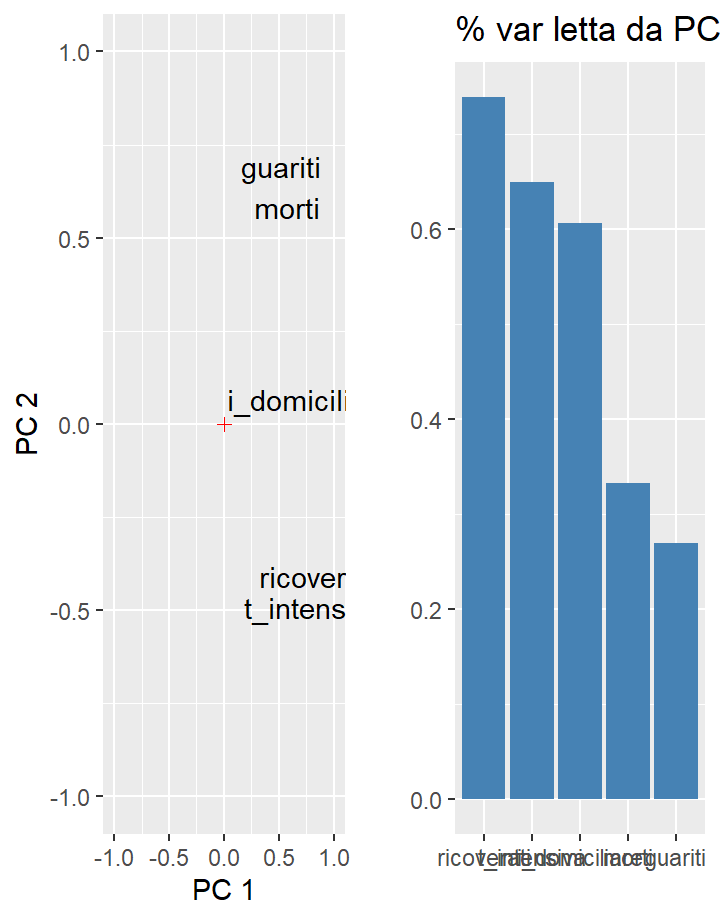
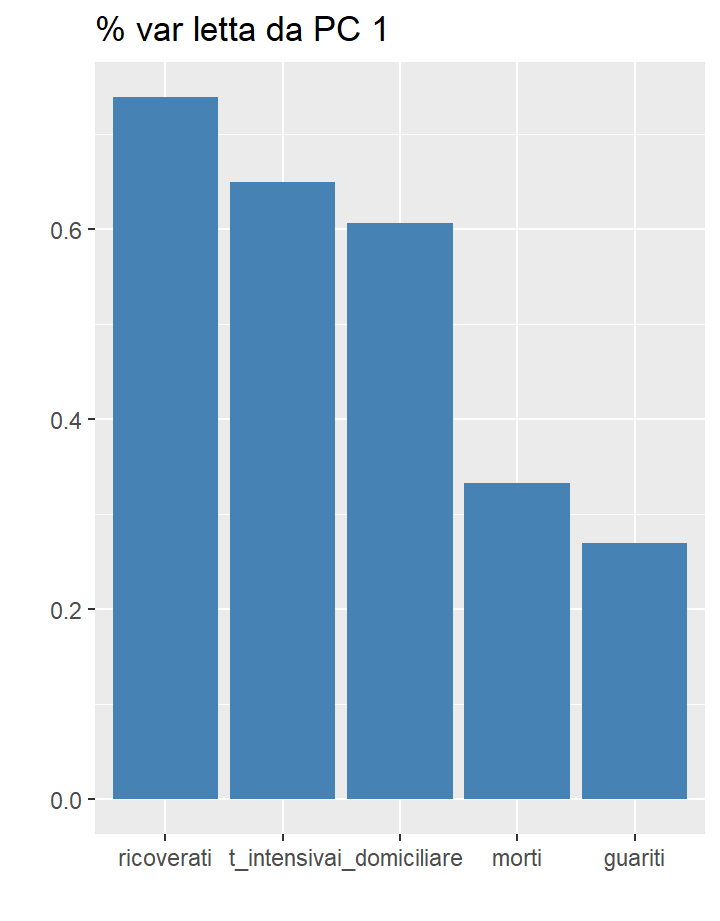
Add files via upload

diff --git a/index.html b/index.html
@@ -832,6 +832,7 @@ body {
 
 <img class="mobile-figure" data-mobile-figure-id=fig1 src="index_files/figure-html/unnamed-chunk-1-1.mb.png" />
 <img class="mobile-figure" data-mobile-figure-id=fig2 src="index_files/figure-html/unnamed-chunk-15-1.mb.png" />
+<img class="mobile-figure" data-mobile-figure-id=fig3 src="index_files/figure-html/unnamed-chunk-16-1.mb.png" />
 <script type="text/javascript">
 
 
@@ -2718,16 +2719,16 @@ window.FlexDashboardComponents.push({
 <div class="knitr-options" data-fig-width="576" data-fig-height="460">
 
 </div>
-<div id="htmlwidget-4f9350a55f578fbecb28" style="width:100%;height:auto;" class="datatables html-widget"></div>
-<script type="application/json" data-for="htmlwidget-4f9350a55f578fbecb28">{"x":{"filter":"none","fillContainer":true,"data":[["febbraio","febbraio","febbraio","febbraio","febbraio","febbraio","marzo","marzo","marzo","marzo","marzo","marzo","marzo","marzo","marzo","marzo","marzo","marzo","marzo","marzo","marzo","marzo","marzo","marzo","marzo","marzo","marzo","marzo","marzo","marzo","marzo","marzo","marzo","marzo","marzo","marzo","marzo","aprile","aprile","aprile","aprile","aprile","aprile","aprile","aprile","aprile","aprile","aprile","aprile","aprile","aprile","aprile","aprile","aprile","aprile","aprile","aprile","aprile","aprile","aprile","aprile","aprile","aprile","aprile","aprile","aprile","aprile","maggio","maggio","maggio","maggio","maggio","maggio","maggio","maggio","maggio","maggio","maggio","maggio","maggio","maggio","maggio","maggio","maggio","maggio","maggio","maggio","maggio","maggio","maggio","maggio","maggio","maggio","maggio","maggio","maggio","maggio","maggio","giugno","giugno","giugno","giugno","giugno","giugno","giugno","giugno","giugno","giugno","giugno","giugno","giugno","giugno","giugno","giugno","giugno","giugno","giugno","giugno","giugno","giugno","giugno","giugno","giugno","giugno","giugno","giugno","giugno","giugno","luglio","luglio","luglio","luglio","luglio","luglio","luglio","luglio","luglio","luglio","luglio","luglio","luglio","luglio","luglio","luglio","luglio","luglio","luglio","luglio","luglio","luglio","luglio","luglio","luglio","luglio","luglio","luglio","luglio","luglio","luglio","agosto","agosto","agosto","agosto","agosto","agosto","agosto","agosto","agosto","agosto","agosto","agosto","agosto","agosto","agosto","agosto","agosto","agosto","agosto","agosto","agosto","agosto","agosto","agosto","agosto","agosto","agosto","agosto","agosto","agosto","agosto","settembre","settembre","settembre","settembre","settembre","settembre","settembre","settembre","settembre","settembre","settembre","settembre","settembre","settembre","settembre","settembre","settembre","settembre","settembre","settembre","settembre","settembre","settembre","settembre","settembre","settembre","settembre","settembre","settembre","settembre","ottobre","ottobre","ottobre","ottobre","ottobre","ottobre","ottobre","ottobre","ottobre","ottobre","ottobre","ottobre","ottobre","ottobre","ottobre","ottobre","ottobre","ottobre","ottobre","ottobre","ottobre","ottobre","ottobre","ottobre","ottobre","ottobre","ottobre","ottobre","ottobre","ottobre","ottobre","novembre","novembre","novembre","novembre","novembre","novembre","novembre","novembre","novembre","novembre","novembre","novembre","novembre","novembre","novembre","novembre","novembre","novembre","novembre","novembre","novembre","novembre","novembre"],[1,2,3,4,5,6,7,8,9,10,11,12,13,14,15,16,17,18,19,20,21,22,23,24,25,26,27,28,29,30,31,32,33,34,35,36,37,38,39,40,41,42,43,44,45,46,47,48,49,50,51,52,53,54,55,56,57,58,59,60,61,62,63,64,65,66,67,68,69,70,71,72,73,74,75,76,77,78,79,80,81,82,83,84,85,86,87,88,89,90,91,92,93,94,95,96,97,98,99,100,101,102,103,104,105,106,107,108,109,110,111,112,113,114,115,116,117,118,119,120,121,122,123,124,125,126,127,128,129,130,131,132,133,134,135,136,137,138,139,140,141,142,143,144,145,146,147,148,149,150,151,152,153,154,155,156,157,158,159,160,161,162,163,164,165,166,167,168,169,170,171,172,173,174,175,176,177,178,179,180,181,182,183,184,185,186,187,188,189,190,191,192,193,194,195,196,197,198,199,200,201,202,203,204,205,206,207,208,209,210,211,212,213,214,215,216,217,218,219,220,221,222,223,224,225,226,227,228,229,230,231,232,233,234,235,236,237,238,239,240,241,242,243,244,245,246,247,248,249,250,251,252,253,254,255,256,257,258,259,260,261,262,263,264,265,266,267,268,269,270,271,272,273,274],[101,13,14,120,97,56,238,103,292,312,444,604,257,906,759,722,800,812,776,946,1291,1362,1869,1469,1394,263,1688,2138,846,1245,1175,1641,1276,647,710,409,397,211,137,201,269,-61,27,-258,-233,-86,-157,-98,-297,176,-12,-368,-750,-1107,-779,26,-127,-772,-329,-934,-803,-535,-161,-1019,-630,-513,-1061,-580,-212,-115,-419,-553,-501,-595,-538,-802,-216,-79,-674,-693,-719,-661,-392,-89,-104,-216,-367,-355,-312,-262,-82,-428,-268,-188,-350,-285,-414,-293,-288,-183,-174,-239,-202,-299,-138,-135,-148,-261,-189,-238,-146,-153,-105,-188,-188,-246,-235,-158,-160,-276,-185,-243,-95,-159,-96,-100,-40,-30,-65,-62,-7,-16,5,1,-6,-41,-28,-27,-18,-50,-8,9,20,-47,21,-14,-14,2,-13,-8,-11,0,18,4,5,9,-18,17,-32,-11,3,26,27,3,-2,17,-8,-8,16,22,-22,7,-15,-7,23,23,33,23,17,36,5,47,74,13,-3,76,47,-10,83,37,92,57,68,102,13,63,36,41,18,58,13,102,91,80,100,63,63,39,-7,-15,110,129,54,73,6,9,100,131,71,-1,50,45,63,82,200,138,157,143,161,250,183,302,255,394,326,382,439,514,545,778,603,637,855,738,719,991,958,1026,983,1030,972,936,938,1274,1002,1140,749,1104,1331,1196,997,811,429,1041,484,649,489,538,430,106,347,106,216,418],[26,9,1,20,8,41,35,26,63,66,56,111,105,83,83,144,151,125,175,190,154,179,209,197,241,157,202,152,195,192,93,123,120,124,50,75,42,12,18,15,-74,-17,-79,-106,-99,-88,-108,-116,-38,-83,-74,-107,-143,-124,-79,-98,-62,-102,-87,-117,-94,-71,-93,-53,-93,-68,-101,-116,-39,-38,-22,-52,-94,-22,-143,-134,-7,-28,-47,-59,-38,-47,-33,-13,-13,-33,-40,-36,-45,-23,-19,-12,-20,-16,-16,-14,-25,-15,-11,-16,-55,-15,-22,-23,-6,-4,-20,-14,-13,-9,-7,-11,-2,-30,-14,5,-7,-9,-4,-21,-12,-8,-4,2,-8,1,-2,-3,-6,-5,-3,-8,3,-2,-2,1,-2,-4,2,1,-3,-5,-3,-4,-3,0,-1,-2,2,-1,1,-3,-5,3,1,-5,-2,9,-6,2,-1,-1,0,0,1,0,1,2,1,3,4,2,1,-1,1,2,0,8,2,1,-5,5,-4,1,3,-2,7,5,7,8,13,2,11,1,0,12,9,1,7,14,11,7,5,10,4,6,5,-4,7,7,10,7,5,2,-2,3,7,10,7,9,11,3,3,6,20,-4,18,21,29,3,30,32,62,25,47,52,67,45,47,73,56,66,57,79,80,76,127,125,115,95,97,96,83,203,67,99,124,119,115,100,122,110,89,60,76,116,70,120,58,42,36,10,43,9],[94,68,59,63,128,131,255,129,73,65,90,-95,783,337,756,-337,1125,1312,1165,1659,1408,929,911,982,2845,4250,2931,1667,2739,2175,2223,2728,3005,2880,3055,1164,1668,2714,2322,2123,2691,3050,1993,1244,1527,1789,1661,2210,2319,1270,761,1602,2082,1586,1667,558,169,346,406,200,576,-74,510,782,115,33,-1944,88,12,-372,242,-908,-6344,-1287,-982,-2183,-1295,-729,-501,-2057,-1260,-3662,-1458,-1734,-1681,-1175,-1970,-1401,-1281,-1285,-1057,-854,-2070,-1772,-2614,-1512,-2045,-1286,-431,-1275,-367,-614,-1229,-777,-471,-393,-1690,-887,-871,-1393,-1359,-1047,-258,-1122,-442,-583,-1316,-164,-76,-38,-867,-667,-253,-508,-698,-56,-143,-900,-237,-128,-166,-239,13,68,-459,-607,-106,0,-109,-75,-11,-242,-443,31,-35,-74,87,-36,-145,83,92,-100,128,116,10,24,27,-412,230,44,-3,-7,-19,161,49,213,36,316,88,168,248,281,182,165,303,109,189,240,635,627,825,883,687,505,1039,1105,1049,1126,959,828,571,1004,1019,1081,1082,809,870,754,920,902,1035,627,910,588,421,751,813,1009,704,945,861,274,566,591,934,863,918,564,229,625,1323,1302,1503,1775,1254,1097,2267,3212,3968,4466,4033,3355,4112,4833,6448,7612,9117,8743,7174,7885,12044,13157,15788,16363,18260,13376,17321,20216,21636,25470,24531,25711,17362,20153,24024,27874,25897,32195,24654,13402,15657,22327,21178,27771,23949,23290,4735,15368,8870,18355,15122,14454,13942,-9525],[1,0,2,42,1,4,33,66,11,116,138,109,66,33,102,280,41,213,181,527,369,414,192,1084,415,689,943,952,408,894,1036,999,589,1434,646,1590,1109,1118,1431,1480,1238,819,1022,1555,2099,1979,1985,2079,1677,1224,1695,962,2072,2563,2200,2128,1822,2723,2943,3033,2922,2622,1808,1696,2317,2311,4693,2304,1665,1740,1225,2352,8014,3031,2747,4008,2155,1401,2452,3502,2747,4917,2605,2366,2150,2075,2881,2278,2160,2120,1639,1502,2677,2443,3503,2240,2789,1874,848,1737,846,957,1886,1297,759,747,2062,1293,1399,1747,1780,1505,640,1516,929,1089,1363,546,440,533,1159,1526,614,890,969,307,305,1052,469,366,384,477,164,133,574,825,338,295,306,349,178,335,575,230,237,323,143,213,269,197,214,350,128,126,147,163,275,765,178,255,231,129,177,210,347,319,305,151,150,213,236,226,403,314,146,182,174,364,180,274,243,267,192,353,314,225,348,322,312,117,291,257,289,537,583,405,223,563,471,613,547,759,443,316,695,620,689,853,909,635,352,967,995,1097,954,977,724,773,1316,1198,1140,1126,1247,697,767,1418,1204,1060,1186,976,1184,891,1428,2037,1899,1908,1255,2334,1498,2046,2369,2082,2352,2309,2086,2423,3362,3416,3878,4285,5859,2954,3637,6258,5103,4961,10586,5966,6183,10215,17734,9090,15645,11480,12196,9376,21554,15434,24169,17020,21035,19502,13574,31395],[7,3,2,5,4,8,5,18,27,28,41,49,36,133,97,168,196,189,250,175,368,349,345,475,427,627,793,651,601,743,683,662,969,889,756,812,837,727,760,766,681,525,636,604,542,610,570,619,431,566,602,578,525,575,482,433,454,534,437,464,420,415,260,333,382,323,285,269,474,174,195,236,369,274,243,194,165,179,172,195,262,242,153,145,99,162,161,156,130,119,50,92,78,117,70,87,111,75,60,55,71,88,85,72,53,65,79,71,53,56,78,44,26,34,43,66,47,49,24,23,18,-31,34,30,8,22,6,23,21,30,15,21,7,8,30,15,12,12,7,9,13,17,13,20,11,14,3,13,15,9,10,5,5,5,5,11,6,3,9,5,8,12,5,10,6,3,13,2,4,6,10,6,3,158,4,4,5,7,6,9,3,7,4,4,13,5,9,1,4,6,8,6,10,11,15,8,12,10,14,10,10,6,7,14,9,12,13,10,24,15,17,14,20,23,20,17,17,16,24,19,24,23,27,18,16,28,31,22,28,29,26,39,41,43,83,55,47,69,73,89,127,136,91,151,128,141,221,205,217,199,297,208,233,353,335,445,446,425,331,356,580,623,636,550,544,546,504,731,753,653,699,692,562,630]],"container":"<table class=\"display fill-container\">\n  <thead>\n    <tr>\n      <th>mese<\/th>\n      <th>giorno<\/th>\n      <th>ricoverati<\/th>\n      <th>t_intensiva<\/th>\n      <th>i_domiciliare<\/th>\n      <th>guariti<\/th>\n      <th>morti<\/th>\n    <\/tr>\n  <\/thead>\n<\/table>","options":{"columnDefs":[{"className":"dt-right","targets":[1,2,3,4,5,6]}],"order":[],"autoWidth":false,"orderClasses":false}},"evals":[],"jsHooks":[]}</script>
+<div id="htmlwidget-ed10fe36259501f4ece8" style="width:100%;height:auto;" class="datatables html-widget"></div>
+<script type="application/json" data-for="htmlwidget-ed10fe36259501f4ece8">{"x":{"filter":"none","fillContainer":true,"data":[["febbraio","febbraio","febbraio","febbraio","febbraio","febbraio","marzo","marzo","marzo","marzo","marzo","marzo","marzo","marzo","marzo","marzo","marzo","marzo","marzo","marzo","marzo","marzo","marzo","marzo","marzo","marzo","marzo","marzo","marzo","marzo","marzo","marzo","marzo","marzo","marzo","marzo","marzo","aprile","aprile","aprile","aprile","aprile","aprile","aprile","aprile","aprile","aprile","aprile","aprile","aprile","aprile","aprile","aprile","aprile","aprile","aprile","aprile","aprile","aprile","aprile","aprile","aprile","aprile","aprile","aprile","aprile","aprile","maggio","maggio","maggio","maggio","maggio","maggio","maggio","maggio","maggio","maggio","maggio","maggio","maggio","maggio","maggio","maggio","maggio","maggio","maggio","maggio","maggio","maggio","maggio","maggio","maggio","maggio","maggio","maggio","maggio","maggio","maggio","giugno","giugno","giugno","giugno","giugno","giugno","giugno","giugno","giugno","giugno","giugno","giugno","giugno","giugno","giugno","giugno","giugno","giugno","giugno","giugno","giugno","giugno","giugno","giugno","giugno","giugno","giugno","giugno","giugno","giugno","luglio","luglio","luglio","luglio","luglio","luglio","luglio","luglio","luglio","luglio","luglio","luglio","luglio","luglio","luglio","luglio","luglio","luglio","luglio","luglio","luglio","luglio","luglio","luglio","luglio","luglio","luglio","luglio","luglio","luglio","luglio","agosto","agosto","agosto","agosto","agosto","agosto","agosto","agosto","agosto","agosto","agosto","agosto","agosto","agosto","agosto","agosto","agosto","agosto","agosto","agosto","agosto","agosto","agosto","agosto","agosto","agosto","agosto","agosto","agosto","agosto","agosto","settembre","settembre","settembre","settembre","settembre","settembre","settembre","settembre","settembre","settembre","settembre","settembre","settembre","settembre","settembre","settembre","settembre","settembre","settembre","settembre","settembre","settembre","settembre","settembre","settembre","settembre","settembre","settembre","settembre","settembre","ottobre","ottobre","ottobre","ottobre","ottobre","ottobre","ottobre","ottobre","ottobre","ottobre","ottobre","ottobre","ottobre","ottobre","ottobre","ottobre","ottobre","ottobre","ottobre","ottobre","ottobre","ottobre","ottobre","ottobre","ottobre","ottobre","ottobre","ottobre","ottobre","ottobre","ottobre","novembre","novembre","novembre","novembre","novembre","novembre","novembre","novembre","novembre","novembre","novembre","novembre","novembre","novembre","novembre","novembre","novembre","novembre","novembre","novembre","novembre","novembre","novembre"],[1,2,3,4,5,6,7,8,9,10,11,12,13,14,15,16,17,18,19,20,21,22,23,24,25,26,27,28,29,30,31,32,33,34,35,36,37,38,39,40,41,42,43,44,45,46,47,48,49,50,51,52,53,54,55,56,57,58,59,60,61,62,63,64,65,66,67,68,69,70,71,72,73,74,75,76,77,78,79,80,81,82,83,84,85,86,87,88,89,90,91,92,93,94,95,96,97,98,99,100,101,102,103,104,105,106,107,108,109,110,111,112,113,114,115,116,117,118,119,120,121,122,123,124,125,126,127,128,129,130,131,132,133,134,135,136,137,138,139,140,141,142,143,144,145,146,147,148,149,150,151,152,153,154,155,156,157,158,159,160,161,162,163,164,165,166,167,168,169,170,171,172,173,174,175,176,177,178,179,180,181,182,183,184,185,186,187,188,189,190,191,192,193,194,195,196,197,198,199,200,201,202,203,204,205,206,207,208,209,210,211,212,213,214,215,216,217,218,219,220,221,222,223,224,225,226,227,228,229,230,231,232,233,234,235,236,237,238,239,240,241,242,243,244,245,246,247,248,249,250,251,252,253,254,255,256,257,258,259,260,261,262,263,264,265,266,267,268,269,270,271,272,273,274],[101,13,14,120,97,56,238,103,292,312,444,604,257,906,759,722,800,812,776,946,1291,1362,1869,1469,1394,263,1688,2138,846,1245,1175,1641,1276,647,710,409,397,211,137,201,269,-61,27,-258,-233,-86,-157,-98,-297,176,-12,-368,-750,-1107,-779,26,-127,-772,-329,-934,-803,-535,-161,-1019,-630,-513,-1061,-580,-212,-115,-419,-553,-501,-595,-538,-802,-216,-79,-674,-693,-719,-661,-392,-89,-104,-216,-367,-355,-312,-262,-82,-428,-268,-188,-350,-285,-414,-293,-288,-183,-174,-239,-202,-299,-138,-135,-148,-261,-189,-238,-146,-153,-105,-188,-188,-246,-235,-158,-160,-276,-185,-243,-95,-159,-96,-100,-40,-30,-65,-62,-7,-16,5,1,-6,-41,-28,-27,-18,-50,-8,9,20,-47,21,-14,-14,2,-13,-8,-11,0,18,4,5,9,-18,17,-32,-11,3,26,27,3,-2,17,-8,-8,16,22,-22,7,-15,-7,23,23,33,23,17,36,5,47,74,13,-3,76,47,-10,83,37,92,57,68,102,13,63,36,41,18,58,13,102,91,80,100,63,63,39,-7,-15,110,129,54,73,6,9,100,131,71,-1,50,45,63,82,200,138,157,143,161,250,183,302,255,394,326,382,439,514,545,778,603,637,855,738,719,991,958,1026,983,1030,972,936,938,1274,1002,1140,749,1104,1331,1196,997,811,429,1041,484,649,489,538,430,106,347,106,216,418],[26,9,1,20,8,41,35,26,63,66,56,111,105,83,83,144,151,125,175,190,154,179,209,197,241,157,202,152,195,192,93,123,120,124,50,75,42,12,18,15,-74,-17,-79,-106,-99,-88,-108,-116,-38,-83,-74,-107,-143,-124,-79,-98,-62,-102,-87,-117,-94,-71,-93,-53,-93,-68,-101,-116,-39,-38,-22,-52,-94,-22,-143,-134,-7,-28,-47,-59,-38,-47,-33,-13,-13,-33,-40,-36,-45,-23,-19,-12,-20,-16,-16,-14,-25,-15,-11,-16,-55,-15,-22,-23,-6,-4,-20,-14,-13,-9,-7,-11,-2,-30,-14,5,-7,-9,-4,-21,-12,-8,-4,2,-8,1,-2,-3,-6,-5,-3,-8,3,-2,-2,1,-2,-4,2,1,-3,-5,-3,-4,-3,0,-1,-2,2,-1,1,-3,-5,3,1,-5,-2,9,-6,2,-1,-1,0,0,1,0,1,2,1,3,4,2,1,-1,1,2,0,8,2,1,-5,5,-4,1,3,-2,7,5,7,8,13,2,11,1,0,12,9,1,7,14,11,7,5,10,4,6,5,-4,7,7,10,7,5,2,-2,3,7,10,7,9,11,3,3,6,20,-4,18,21,29,3,30,32,62,25,47,52,67,45,47,73,56,66,57,79,80,76,127,125,115,95,97,96,83,203,67,99,124,119,115,100,122,110,89,60,76,116,70,120,58,42,36,10,43,9],[94,68,59,63,128,131,255,129,73,65,90,-95,783,337,756,-337,1125,1312,1165,1659,1408,929,911,982,2845,4250,2931,1667,2739,2175,2223,2728,3005,2880,3055,1164,1668,2714,2322,2123,2691,3050,1993,1244,1527,1789,1661,2210,2319,1270,761,1602,2082,1586,1667,558,169,346,406,200,576,-74,510,782,115,33,-1944,88,12,-372,242,-908,-6344,-1287,-982,-2183,-1295,-729,-501,-2057,-1260,-3662,-1458,-1734,-1681,-1175,-1970,-1401,-1281,-1285,-1057,-854,-2070,-1772,-2614,-1512,-2045,-1286,-431,-1275,-367,-614,-1229,-777,-471,-393,-1690,-887,-871,-1393,-1359,-1047,-258,-1122,-442,-583,-1316,-164,-76,-38,-867,-667,-253,-508,-698,-56,-143,-900,-237,-128,-166,-239,13,68,-459,-607,-106,0,-109,-75,-11,-242,-443,31,-35,-74,87,-36,-145,83,92,-100,128,116,10,24,27,-412,230,44,-3,-7,-19,161,49,213,36,316,88,168,248,281,182,165,303,109,189,240,635,627,825,883,687,505,1039,1105,1049,1126,959,828,571,1004,1019,1081,1082,809,870,754,920,902,1035,627,910,588,421,751,813,1009,704,945,861,274,566,591,934,863,918,564,229,625,1323,1302,1503,1775,1254,1097,2267,3212,3968,4466,4033,3355,4112,4833,6448,7612,9117,8743,7174,7885,12044,13157,15788,16363,18260,13376,17321,20216,21636,25470,24531,25711,17362,20153,24024,27874,25897,32195,24654,13402,15657,22327,21178,27771,23949,23290,4735,15368,8870,18355,15122,14454,13942,-9525],[1,0,2,42,1,4,33,66,11,116,138,109,66,33,102,280,41,213,181,527,369,414,192,1084,415,689,943,952,408,894,1036,999,589,1434,646,1590,1109,1118,1431,1480,1238,819,1022,1555,2099,1979,1985,2079,1677,1224,1695,962,2072,2563,2200,2128,1822,2723,2943,3033,2922,2622,1808,1696,2317,2311,4693,2304,1665,1740,1225,2352,8014,3031,2747,4008,2155,1401,2452,3502,2747,4917,2605,2366,2150,2075,2881,2278,2160,2120,1639,1502,2677,2443,3503,2240,2789,1874,848,1737,846,957,1886,1297,759,747,2062,1293,1399,1747,1780,1505,640,1516,929,1089,1363,546,440,533,1159,1526,614,890,969,307,305,1052,469,366,384,477,164,133,574,825,338,295,306,349,178,335,575,230,237,323,143,213,269,197,214,350,128,126,147,163,275,765,178,255,231,129,177,210,347,319,305,151,150,213,236,226,403,314,146,182,174,364,180,274,243,267,192,353,314,225,348,322,312,117,291,257,289,537,583,405,223,563,471,613,547,759,443,316,695,620,689,853,909,635,352,967,995,1097,954,977,724,773,1316,1198,1140,1126,1247,697,767,1418,1204,1060,1186,976,1184,891,1428,2037,1899,1908,1255,2334,1498,2046,2369,2082,2352,2309,2086,2423,3362,3416,3878,4285,5859,2954,3637,6258,5103,4961,10586,5966,6183,10215,17734,9090,15645,11480,12196,9376,21554,15434,24169,17020,21035,19502,13574,31395],[7,3,2,5,4,8,5,18,27,28,41,49,36,133,97,168,196,189,250,175,368,349,345,475,427,627,793,651,601,743,683,662,969,889,756,812,837,727,760,766,681,525,636,604,542,610,570,619,431,566,602,578,525,575,482,433,454,534,437,464,420,415,260,333,382,323,285,269,474,174,195,236,369,274,243,194,165,179,172,195,262,242,153,145,99,162,161,156,130,119,50,92,78,117,70,87,111,75,60,55,71,88,85,72,53,65,79,71,53,56,78,44,26,34,43,66,47,49,24,23,18,-31,34,30,8,22,6,23,21,30,15,21,7,8,30,15,12,12,7,9,13,17,13,20,11,14,3,13,15,9,10,5,5,5,5,11,6,3,9,5,8,12,5,10,6,3,13,2,4,6,10,6,3,158,4,4,5,7,6,9,3,7,4,4,13,5,9,1,4,6,8,6,10,11,15,8,12,10,14,10,10,6,7,14,9,12,13,10,24,15,17,14,20,23,20,17,17,16,24,19,24,23,27,18,16,28,31,22,28,29,26,39,41,43,83,55,47,69,73,89,127,136,91,151,128,141,221,205,217,199,297,208,233,353,335,445,446,425,331,356,580,623,636,550,544,546,504,731,753,653,699,692,562,630]],"container":"<table class=\"display fill-container\">\n  <thead>\n    <tr>\n      <th>mese<\/th>\n      <th>giorno<\/th>\n      <th>ricoverati<\/th>\n      <th>t_intensiva<\/th>\n      <th>i_domiciliare<\/th>\n      <th>guariti<\/th>\n      <th>morti<\/th>\n    <\/tr>\n  <\/thead>\n<\/table>","options":{"columnDefs":[{"className":"dt-right","targets":[1,2,3,4,5,6]}],"order":[],"autoWidth":false,"orderClasses":false}},"evals":[],"jsHooks":[]}</script>
 </div>
 <div id="dati-lombardia" class="section level1">
 <h1>Dati Lombardia</h1>
 <div class="knitr-options" data-fig-width="576" data-fig-height="460">
 
 </div>
-<div id="htmlwidget-fbf270f7d63864873f6b" style="width:100%;height:auto;" class="datatables html-widget"></div>
-<script type="application/json" data-for="htmlwidget-fbf270f7d63864873f6b">{"x":{"filter":"none","fillContainer":true,"data":[["febbraio","febbraio","febbraio","febbraio","febbraio","febbraio","marzo","marzo","marzo","marzo","marzo","marzo","marzo","marzo","marzo","marzo","marzo","marzo","marzo","marzo","marzo","marzo","marzo","marzo","marzo","marzo","marzo","marzo","marzo","marzo","marzo","marzo","marzo","marzo","marzo","marzo","marzo","aprile","aprile","aprile","aprile","aprile","aprile","aprile","aprile","aprile","aprile","aprile","aprile","aprile","aprile","aprile","aprile","aprile","aprile","aprile","aprile","aprile","aprile","aprile","aprile","aprile","aprile","aprile","aprile","aprile","aprile","maggio","maggio","maggio","maggio","maggio","maggio","maggio","maggio","maggio","maggio","maggio","maggio","maggio","maggio","maggio","maggio","maggio","maggio","maggio","maggio","maggio","maggio","maggio","maggio","maggio","maggio","maggio","maggio","maggio","maggio","maggio","giugno","giugno","giugno","giugno","giugno","giugno","giugno","giugno","giugno","giugno","giugno","giugno","giugno","giugno","giugno","giugno","giugno","giugno","giugno","giugno","giugno","giugno","giugno","giugno","giugno","giugno","giugno","giugno","giugno","giugno","luglio","luglio","luglio","luglio","luglio","luglio","luglio","luglio","luglio","luglio","luglio","luglio","luglio","luglio","luglio","luglio","luglio","luglio","luglio","luglio","luglio","luglio","luglio","luglio","luglio","luglio","luglio","luglio","luglio","luglio","luglio","agosto","agosto","agosto","agosto","agosto","agosto","agosto","agosto","agosto","agosto","agosto","agosto","agosto","agosto","agosto","agosto","agosto","agosto","agosto","agosto","agosto","agosto","agosto","agosto","agosto","agosto","agosto","agosto","agosto","agosto","agosto","settembre","settembre","settembre","settembre","settembre","settembre","settembre","settembre","settembre","settembre","settembre","settembre","settembre","settembre","settembre","settembre","settembre","settembre","settembre","settembre","settembre","settembre","settembre","settembre","settembre","settembre","settembre","settembre","settembre","settembre","ottobre","ottobre","ottobre","ottobre","ottobre","ottobre","ottobre","ottobre","ottobre","ottobre","ottobre","ottobre","ottobre","ottobre","ottobre","ottobre","ottobre","ottobre","ottobre","ottobre","ottobre","ottobre","ottobre","ottobre","ottobre","ottobre","ottobre","ottobre","ottobre","ottobre","ottobre","novembre","novembre","novembre","novembre","novembre","novembre","novembre","novembre","novembre","novembre","novembre","novembre","novembre","novembre","novembre","novembre","novembre","novembre","novembre","novembre","novembre","novembre","novembre"],[1,2,3,4,5,6,7,8,9,10,11,12,13,14,15,16,17,18,19,20,21,22,23,24,25,26,27,28,29,30,31,32,33,34,35,36,37,38,39,40,41,42,43,44,45,46,47,48,49,50,51,52,53,54,55,56,57,58,59,60,61,62,63,64,65,66,67,68,69,70,71,72,73,74,75,76,77,78,79,80,81,82,83,84,85,86,87,88,89,90,91,92,93,94,95,96,97,98,99,100,101,102,103,104,105,106,107,108,109,110,111,112,113,114,115,116,117,118,119,120,121,122,123,124,125,126,127,128,129,130,131,132,133,134,135,136,137,138,139,140,141,142,143,144,145,146,147,148,149,150,151,152,153,154,155,156,157,158,159,160,161,162,163,164,165,166,167,168,169,170,171,172,173,174,175,176,177,178,179,180,181,182,183,184,185,186,187,188,189,190,191,192,193,194,195,196,197,198,199,200,201,202,203,204,205,206,207,208,209,210,211,212,213,214,215,216,217,218,219,220,221,222,223,224,225,226,227,228,229,230,231,232,233,234,235,236,237,238,239,240,241,242,243,244,245,246,247,248,249,250,251,252,253,254,255,256,257,258,259,260,261,262,263,264,265,266,267,268,269,270,271,272,273,274],[76,3,0,93,63,21,150,72,220,179,292,453,39,556,585,517,533,395,188,463,602,671,782,332,102,348,523,1181,-173,445,315,655,456,15,461,202,68,44,-165,40,200,7,-95,-81,-114,77,81,149,-57,59,49,-34,-687,-729,-585,300,-204,-333,-113,-500,-401,-302,-8,-956,-245,-160,-286,-206,-99,80,-195,-213,-122,-231,-146,-167,-107,-31,-175,-215,-189,-113,-184,-41,2,-56,-145,-162,-91,-2,-9,-296,-99,4,-156,82,-245,-176,-46,-64,-26,-41,6,-120,-39,-93,-48,-95,-77,-131,-105,-136,-98,-116,-106,-123,-136,-136,-141,-213,-137,-218,-70,-121,-86,-92,-2,-24,-20,-36,0,-10,-1,3,-4,-18,-10,-11,-17,-13,8,8,1,-13,-5,-10,-1,3,0,-2,-10,5,4,-9,-2,14,3,-3,-3,10,-5,9,-2,4,4,2,-8,-7,-5,10,5,5,-17,-4,-2,0,3,1,4,-6,-1,0,5,5,0,15,-1,13,9,1,17,8,5,19,1,3,-6,6,4,4,-10,5,1,10,1,1,8,12,-13,-7,19,11,14,-5,-3,12,-10,4,9,-9,-8,4,-9,3,9,15,19,22,10,37,25,30,83,99,81,108,109,122,71,132,253,164,328,140,173,133,256,357,283,343,335,213,160,334,278,300,245,250,412,189,268,225,140,272,302,160,120,250,172,-32,13,10,77,-60],[19,6,0,16,6,33,26,21,40,42,35,65,50,40,41,26,94,45,45,82,35,56,56,45,82,44,43,49,41,11,42,27,29,27,9,2,-6,18,9,30,-55,-9,26,-38,-48,-21,-34,-28,2,-33,-21,-48,-42,-61,-24,-25,-21,-50,-34,-27,-34,-32,-18,-26,-25,-21,-29,-42,-18,-13,0,-23,-29,0,-80,-70,18,-7,-19,-15,-10,-21,-8,-13,-3,-8,-13,-5,-19,-8,-2,-1,-13,-8,-2,0,-1,-2,-3,-1,-35,-6,-5,-10,-3,0,-11,2,-1,0,-1,-2,0,-25,-10,1,0,-6,-1,-2,0,-3,0,-1,-4,0,0,-1,-1,0,0,-5,0,0,0,-2,-3,-4,2,2,-1,-3,-4,0,-1,0,0,-1,0,-4,0,0,-4,0,1,-1,0,0,-6,2,0,0,0,2,0,-2,0,0,0,1,0,1,1,0,1,1,0,0,2,1,-3,0,1,0,2,-3,3,1,2,2,-1,1,5,-1,-3,2,1,1,0,3,-3,0,1,0,1,1,2,0,4,2,-2,-2,-1,-2,-1,0,1,0,2,1,1,4,3,-3,2,-1,0,1,3,0,4,2,12,2,8,-1,25,14,3,10,11,22,28,29,18,11,29,21,53,25,22,26,17,40,32,15,48,40,40,20,38,56,18,19,16,20,18,39,9,12,15,6,13,-4],[71,56,18,-9,56,24,159,97,-11,-50,-47,-287,645,34,492,-606,709,693,603,782,347,91,396,-206,1488,1090,1384,-715,1157,502,366,916,1221,572,413,-590,56,579,267,243,886,906,414,-7,364,473,409,607,1062,644,400,640,898,1134,1370,27,315,-226,411,158,930,439,719,1257,573,559,404,510,311,192,576,21,-5188,493,194,-1484,17,259,458,-413,123,-2076,125,-195,-356,282,-462,211,-672,-293,-5,-102,-626,-436,-966,-312,-628,-635,-86,-541,30,47,-372,-224,-37,-8,-963,-347,-439,-185,-133,-658,85,-602,-145,-203,-466,8,74,10,-598,-455,-165,-230,-558,47,-122,-738,-101,-75,-150,-236,20,44,-414,-594,-90,-1,-114,-197,0,-64,-414,-13,-82,-156,-14,-101,-131,-29,-24,-187,16,5,-45,-60,-118,-525,-15,-68,-129,-35,-41,65,-99,-83,-90,48,-36,-44,2,12,-146,-16,21,-43,-24,7,95,76,86,206,76,-82,180,244,227,177,173,120,114,187,157,206,255,104,84,104,99,121,152,-29,220,49,-51,3,120,81,-83,77,52,-58,64,-49,127,-96,159,93,-246,-31,114,-9,2,199,160,-37,349,506,709,857,798,498,782,861,1743,1971,2363,1533,1266,1528,3322,3442,4076,4566,5107,2198,4274,6144,6142,6977,6425,7825,4166,3774,5857,7476,4549,9973,4329,-1160,3740,6132,717,8185,4692,6082,-10340,3939,-4665,3517,4033,3028,1631,-14424],[0,0,0,40,0,0,33,66,0,111,126,93,55,26,96,250,4,185,113,462,351,357,117,1003,290,517,755,815,210,582,624,558,162,961,293,1082,548,530,814,791,222,184,437,635,649,559,574,543,343,312,343,34,541,454,286,390,482,1366,736,1242,430,445,171,191,440,304,416,387,10,225,133,620,5881,324,572,2138,292,75,707,968,487,2394,427,506,508,190,849,207,1018,688,301,513,875,766,1486,546,1028,990,166,781,239,55,752,469,183,263,1199,507,744,557,426,1019,264,877,489,505,741,276,183,345,791,757,383,492,723,129,201,821,225,188,261,330,73,61,458,673,217,145,192,277,78,86,475,96,140,244,48,147,164,85,113,235,63,78,80,99,161,616,97,110,164,48,86,62,208,152,171,29,72,101,95,54,258,113,38,85,71,79,51,97,103,29,27,196,87,30,84,98,48,10,110,39,60,107,134,86,24,158,112,116,114,293,40,64,223,152,150,129,326,134,20,229,119,275,152,336,61,20,435,236,212,304,392,113,78,373,147,153,260,244,202,163,197,865,209,334,154,1285,341,334,519,468,477,170,439,1211,418,989,804,1567,2064,489,889,2539,1495,892,4961,1118,1420,5629,6780,1615,8229,2040,2961,1617,14231,4018,11935,3791,4985,5640,3208,19637],[6,3,0,5,3,6,1,14,17,18,25,37,19,113,66,135,149,127,146,76,252,202,220,319,209,381,546,361,320,402,296,387,541,542,416,458,381,394,367,351,345,249,297,282,238,300,216,273,110,280,241,235,231,243,199,163,163,203,161,200,166,163,56,124,126,104,93,88,329,42,63,95,222,134,94,85,62,68,62,69,111,115,39,69,24,54,65,65,57,56,0,34,22,58,20,38,67,33,19,12,29,29,21,27,21,32,15,32,25,31,23,21,8,9,14,36,18,23,13,3,6,7,22,16,2,13,1,4,6,21,4,16,6,3,13,12,5,6,4,8,9,3,5,10,3,10,0,8,1,1,3,0,0,0,0,1,0,0,4,1,8,3,1,5,5,0,3,1,0,0,0,2,1,1,3,0,0,4,2,6,0,4,1,0,0,0,3,0,3,2,2,2,1,6,1,3,6,2,3,1,4,0,3,2,2,2,1,2,9,5,1,2,0,10,2,4,5,2,3,4,5,4,5,2,2,0,5,1,1,2,3,3,6,17,26,7,13,21,6,19,20,29,7,51,25,17,58,47,57,48,73,54,46,117,96,139,131,108,117,99,129,152,187,118,158,181,99,202,182,165,175,169,165,140]],"container":"<table class=\"display fill-container\">\n  <thead>\n    <tr>\n      <th>mese<\/th>\n      <th>giorno<\/th>\n      <th>ricoverati<\/th>\n      <th>t_intensiva<\/th>\n      <th>i_domiciliare<\/th>\n      <th>guariti<\/th>\n      <th>morti<\/th>\n    <\/tr>\n  <\/thead>\n<\/table>","options":{"columnDefs":[{"className":"dt-right","targets":[1,2,3,4,5,6]}],"order":[],"autoWidth":false,"orderClasses":false}},"evals":[],"jsHooks":[]}</script>
+<div id="htmlwidget-e5e4f803dfc3e85b5242" style="width:100%;height:auto;" class="datatables html-widget"></div>
+<script type="application/json" data-for="htmlwidget-e5e4f803dfc3e85b5242">{"x":{"filter":"none","fillContainer":true,"data":[["febbraio","febbraio","febbraio","febbraio","febbraio","febbraio","marzo","marzo","marzo","marzo","marzo","marzo","marzo","marzo","marzo","marzo","marzo","marzo","marzo","marzo","marzo","marzo","marzo","marzo","marzo","marzo","marzo","marzo","marzo","marzo","marzo","marzo","marzo","marzo","marzo","marzo","marzo","aprile","aprile","aprile","aprile","aprile","aprile","aprile","aprile","aprile","aprile","aprile","aprile","aprile","aprile","aprile","aprile","aprile","aprile","aprile","aprile","aprile","aprile","aprile","aprile","aprile","aprile","aprile","aprile","aprile","aprile","maggio","maggio","maggio","maggio","maggio","maggio","maggio","maggio","maggio","maggio","maggio","maggio","maggio","maggio","maggio","maggio","maggio","maggio","maggio","maggio","maggio","maggio","maggio","maggio","maggio","maggio","maggio","maggio","maggio","maggio","maggio","giugno","giugno","giugno","giugno","giugno","giugno","giugno","giugno","giugno","giugno","giugno","giugno","giugno","giugno","giugno","giugno","giugno","giugno","giugno","giugno","giugno","giugno","giugno","giugno","giugno","giugno","giugno","giugno","giugno","giugno","luglio","luglio","luglio","luglio","luglio","luglio","luglio","luglio","luglio","luglio","luglio","luglio","luglio","luglio","luglio","luglio","luglio","luglio","luglio","luglio","luglio","luglio","luglio","luglio","luglio","luglio","luglio","luglio","luglio","luglio","luglio","agosto","agosto","agosto","agosto","agosto","agosto","agosto","agosto","agosto","agosto","agosto","agosto","agosto","agosto","agosto","agosto","agosto","agosto","agosto","agosto","agosto","agosto","agosto","agosto","agosto","agosto","agosto","agosto","agosto","agosto","agosto","settembre","settembre","settembre","settembre","settembre","settembre","settembre","settembre","settembre","settembre","settembre","settembre","settembre","settembre","settembre","settembre","settembre","settembre","settembre","settembre","settembre","settembre","settembre","settembre","settembre","settembre","settembre","settembre","settembre","settembre","ottobre","ottobre","ottobre","ottobre","ottobre","ottobre","ottobre","ottobre","ottobre","ottobre","ottobre","ottobre","ottobre","ottobre","ottobre","ottobre","ottobre","ottobre","ottobre","ottobre","ottobre","ottobre","ottobre","ottobre","ottobre","ottobre","ottobre","ottobre","ottobre","ottobre","ottobre","novembre","novembre","novembre","novembre","novembre","novembre","novembre","novembre","novembre","novembre","novembre","novembre","novembre","novembre","novembre","novembre","novembre","novembre","novembre","novembre","novembre","novembre","novembre"],[1,2,3,4,5,6,7,8,9,10,11,12,13,14,15,16,17,18,19,20,21,22,23,24,25,26,27,28,29,30,31,32,33,34,35,36,37,38,39,40,41,42,43,44,45,46,47,48,49,50,51,52,53,54,55,56,57,58,59,60,61,62,63,64,65,66,67,68,69,70,71,72,73,74,75,76,77,78,79,80,81,82,83,84,85,86,87,88,89,90,91,92,93,94,95,96,97,98,99,100,101,102,103,104,105,106,107,108,109,110,111,112,113,114,115,116,117,118,119,120,121,122,123,124,125,126,127,128,129,130,131,132,133,134,135,136,137,138,139,140,141,142,143,144,145,146,147,148,149,150,151,152,153,154,155,156,157,158,159,160,161,162,163,164,165,166,167,168,169,170,171,172,173,174,175,176,177,178,179,180,181,182,183,184,185,186,187,188,189,190,191,192,193,194,195,196,197,198,199,200,201,202,203,204,205,206,207,208,209,210,211,212,213,214,215,216,217,218,219,220,221,222,223,224,225,226,227,228,229,230,231,232,233,234,235,236,237,238,239,240,241,242,243,244,245,246,247,248,249,250,251,252,253,254,255,256,257,258,259,260,261,262,263,264,265,266,267,268,269,270,271,272,273,274],[76,3,0,93,63,21,150,72,220,179,292,453,39,556,585,517,533,395,188,463,602,671,782,332,102,348,523,1181,-173,445,315,655,456,15,461,202,68,44,-165,40,200,7,-95,-81,-114,77,81,149,-57,59,49,-34,-687,-729,-585,300,-204,-333,-113,-500,-401,-302,-8,-956,-245,-160,-286,-206,-99,80,-195,-213,-122,-231,-146,-167,-107,-31,-175,-215,-189,-113,-184,-41,2,-56,-145,-162,-91,-2,-9,-296,-99,4,-156,82,-245,-176,-46,-64,-26,-41,6,-120,-39,-93,-48,-95,-77,-131,-105,-136,-98,-116,-106,-123,-136,-136,-141,-213,-137,-218,-70,-121,-86,-92,-2,-24,-20,-36,0,-10,-1,3,-4,-18,-10,-11,-17,-13,8,8,1,-13,-5,-10,-1,3,0,-2,-10,5,4,-9,-2,14,3,-3,-3,10,-5,9,-2,4,4,2,-8,-7,-5,10,5,5,-17,-4,-2,0,3,1,4,-6,-1,0,5,5,0,15,-1,13,9,1,17,8,5,19,1,3,-6,6,4,4,-10,5,1,10,1,1,8,12,-13,-7,19,11,14,-5,-3,12,-10,4,9,-9,-8,4,-9,3,9,15,19,22,10,37,25,30,83,99,81,108,109,122,71,132,253,164,328,140,173,133,256,357,283,343,335,213,160,334,278,300,245,250,412,189,268,225,140,272,302,160,120,250,172,-32,13,10,77,-60],[19,6,0,16,6,33,26,21,40,42,35,65,50,40,41,26,94,45,45,82,35,56,56,45,82,44,43,49,41,11,42,27,29,27,9,2,-6,18,9,30,-55,-9,26,-38,-48,-21,-34,-28,2,-33,-21,-48,-42,-61,-24,-25,-21,-50,-34,-27,-34,-32,-18,-26,-25,-21,-29,-42,-18,-13,0,-23,-29,0,-80,-70,18,-7,-19,-15,-10,-21,-8,-13,-3,-8,-13,-5,-19,-8,-2,-1,-13,-8,-2,0,-1,-2,-3,-1,-35,-6,-5,-10,-3,0,-11,2,-1,0,-1,-2,0,-25,-10,1,0,-6,-1,-2,0,-3,0,-1,-4,0,0,-1,-1,0,0,-5,0,0,0,-2,-3,-4,2,2,-1,-3,-4,0,-1,0,0,-1,0,-4,0,0,-4,0,1,-1,0,0,-6,2,0,0,0,2,0,-2,0,0,0,1,0,1,1,0,1,1,0,0,2,1,-3,0,1,0,2,-3,3,1,2,2,-1,1,5,-1,-3,2,1,1,0,3,-3,0,1,0,1,1,2,0,4,2,-2,-2,-1,-2,-1,0,1,0,2,1,1,4,3,-3,2,-1,0,1,3,0,4,2,12,2,8,-1,25,14,3,10,11,22,28,29,18,11,29,21,53,25,22,26,17,40,32,15,48,40,40,20,38,56,18,19,16,20,18,39,9,12,15,6,13,-4],[71,56,18,-9,56,24,159,97,-11,-50,-47,-287,645,34,492,-606,709,693,603,782,347,91,396,-206,1488,1090,1384,-715,1157,502,366,916,1221,572,413,-590,56,579,267,243,886,906,414,-7,364,473,409,607,1062,644,400,640,898,1134,1370,27,315,-226,411,158,930,439,719,1257,573,559,404,510,311,192,576,21,-5188,493,194,-1484,17,259,458,-413,123,-2076,125,-195,-356,282,-462,211,-672,-293,-5,-102,-626,-436,-966,-312,-628,-635,-86,-541,30,47,-372,-224,-37,-8,-963,-347,-439,-185,-133,-658,85,-602,-145,-203,-466,8,74,10,-598,-455,-165,-230,-558,47,-122,-738,-101,-75,-150,-236,20,44,-414,-594,-90,-1,-114,-197,0,-64,-414,-13,-82,-156,-14,-101,-131,-29,-24,-187,16,5,-45,-60,-118,-525,-15,-68,-129,-35,-41,65,-99,-83,-90,48,-36,-44,2,12,-146,-16,21,-43,-24,7,95,76,86,206,76,-82,180,244,227,177,173,120,114,187,157,206,255,104,84,104,99,121,152,-29,220,49,-51,3,120,81,-83,77,52,-58,64,-49,127,-96,159,93,-246,-31,114,-9,2,199,160,-37,349,506,709,857,798,498,782,861,1743,1971,2363,1533,1266,1528,3322,3442,4076,4566,5107,2198,4274,6144,6142,6977,6425,7825,4166,3774,5857,7476,4549,9973,4329,-1160,3740,6132,717,8185,4692,6082,-10340,3939,-4665,3517,4033,3028,1631,-14424],[0,0,0,40,0,0,33,66,0,111,126,93,55,26,96,250,4,185,113,462,351,357,117,1003,290,517,755,815,210,582,624,558,162,961,293,1082,548,530,814,791,222,184,437,635,649,559,574,543,343,312,343,34,541,454,286,390,482,1366,736,1242,430,445,171,191,440,304,416,387,10,225,133,620,5881,324,572,2138,292,75,707,968,487,2394,427,506,508,190,849,207,1018,688,301,513,875,766,1486,546,1028,990,166,781,239,55,752,469,183,263,1199,507,744,557,426,1019,264,877,489,505,741,276,183,345,791,757,383,492,723,129,201,821,225,188,261,330,73,61,458,673,217,145,192,277,78,86,475,96,140,244,48,147,164,85,113,235,63,78,80,99,161,616,97,110,164,48,86,62,208,152,171,29,72,101,95,54,258,113,38,85,71,79,51,97,103,29,27,196,87,30,84,98,48,10,110,39,60,107,134,86,24,158,112,116,114,293,40,64,223,152,150,129,326,134,20,229,119,275,152,336,61,20,435,236,212,304,392,113,78,373,147,153,260,244,202,163,197,865,209,334,154,1285,341,334,519,468,477,170,439,1211,418,989,804,1567,2064,489,889,2539,1495,892,4961,1118,1420,5629,6780,1615,8229,2040,2961,1617,14231,4018,11935,3791,4985,5640,3208,19637],[6,3,0,5,3,6,1,14,17,18,25,37,19,113,66,135,149,127,146,76,252,202,220,319,209,381,546,361,320,402,296,387,541,542,416,458,381,394,367,351,345,249,297,282,238,300,216,273,110,280,241,235,231,243,199,163,163,203,161,200,166,163,56,124,126,104,93,88,329,42,63,95,222,134,94,85,62,68,62,69,111,115,39,69,24,54,65,65,57,56,0,34,22,58,20,38,67,33,19,12,29,29,21,27,21,32,15,32,25,31,23,21,8,9,14,36,18,23,13,3,6,7,22,16,2,13,1,4,6,21,4,16,6,3,13,12,5,6,4,8,9,3,5,10,3,10,0,8,1,1,3,0,0,0,0,1,0,0,4,1,8,3,1,5,5,0,3,1,0,0,0,2,1,1,3,0,0,4,2,6,0,4,1,0,0,0,3,0,3,2,2,2,1,6,1,3,6,2,3,1,4,0,3,2,2,2,1,2,9,5,1,2,0,10,2,4,5,2,3,4,5,4,5,2,2,0,5,1,1,2,3,3,6,17,26,7,13,21,6,19,20,29,7,51,25,17,58,47,57,48,73,54,46,117,96,139,131,108,117,99,129,152,187,118,158,181,99,202,182,165,175,169,165,140]],"container":"<table class=\"display fill-container\">\n  <thead>\n    <tr>\n      <th>mese<\/th>\n      <th>giorno<\/th>\n      <th>ricoverati<\/th>\n      <th>t_intensiva<\/th>\n      <th>i_domiciliare<\/th>\n      <th>guariti<\/th>\n      <th>morti<\/th>\n    <\/tr>\n  <\/thead>\n<\/table>","options":{"columnDefs":[{"className":"dt-right","targets":[1,2,3,4,5,6]}],"order":[],"autoWidth":false,"orderClasses":false}},"evals":[],"jsHooks":[]}</script>
 </div>
 <div id="info" class="section level1">
 <h1>Info</h1>
@@ -2742,20 +2743,31 @@ window.FlexDashboardComponents.push({
 </div>
 <pre><code>comp 1 comp 2 
  51.95  24.68 </code></pre>
-<p>La percentuale della varianza totale letta dalle prime due componenti principali:</p>
 </div>
 <div id="section-2" class="section level3" data-height="500">
 <h3 data-height="500"></h3>
-<div class="knitr-options" data-fig-width="1440" data-fig-height="720">
+<div class="knitr-options" data-fig-width="576" data-fig-height="460">
 
 </div>
-<p><img src="index_files/figure-html/unnamed-chunk-15-1.png" width="1440" data-figure-id=fig2 /></p>
+<p><img src="index_files/figure-html/unnamed-chunk-15-1.png" width="576" data-figure-id=fig2 /></p>
+<hr />
+<p>La percentuale della varianza totale letta</p>
 </div>
-<div id="section-3" class="section level3" data-height="150">
+<div id="section-3" class="section level3" data-height="500">
+<h3 data-height="500"></h3>
+<div class="knitr-options" data-fig-width="576" data-fig-height="460">
+
+</div>
+<p><img src="index_files/figure-html/unnamed-chunk-16-1.png" width="576" data-figure-id=fig3 /></p>
+<hr />
+<p>Le variabili proiette sul piano PC1/PC2</p>
+</div>
+<div id="section-4" class="section level3" data-height="150">
 <h3 data-height="150"></h3>
 <p>La prima componente “legge” la gravità della situazione in generale.</p>
-<p>Andamento nel tempo della prima componente (o meglio dellla media mobile a 7 giorni - per “smorzare” le oscillazioni giornaliere ).<br />
-La linea blu è Italia e la verde Lombardia</p>
+<p>L’andamento nel tempo della prima componente (o meglio dellla media mobile a 7 giorni - per “smorzare” le oscillazioni giornaliere ) è in <em>Andamento giornaliero</em>.<br />
+La linea blu è Italia e la verde Lombardia.</p>
+<p>Gli stessi colori sono usati per i box con i valori giornalieri delle variabili.</p>
 </div>
 </div>
 
@@ -2859,7 +2871,7 @@ ggplot(data=S,aes(x=giorno,y=Dim.1,colour=mese,label=giorno))+
   #geom_text()+
   geom_path(mapping=aes(x=S_L$giorno,y=S_L$Dim.1,label=S_L$giorno),colour="green4",size = 0.5)+
   geom_point(mapping=aes(x=S_L$giorno,y=S_L$Dim.1,colour=S_L$mese,label=S_L$giorno),size = 0.6)+ 
-  ylab('MM (7gg) PC 1')+ theme(legend.position="bottom")
+  ylab('MM (7gg) PC 1')
 
 ```
 
@@ -2993,20 +3005,12 @@ Y_L.score<-cbind.data.frame(Y[m:p,1:2],Y.pca$ind.sup$coord)
 round(Y.pca$eig[1:2,2],2)
 ```
 
-La percentuale della varianza totale letta dalle prime due componenti principali:
+
 
 ### {data-height=500}
 
 
-```{r echo=FALSE, fig.height=7.5, fig.width=15}
-g<-ggplot()+ 
-  geom_text(data=Y.var,aes(x=Dim.1,y=Dim.2,label=rownames(Y.var)))+ 
-  geom_point(cbind.data.frame(x=0,y=0),mapping = aes(x=x,y=y),shape=3,colour="red")+
-  xlim(-1,1)+ 
-  ylim(-1,1)+
-  xlab('PC 1')+ 
-  ylab('PC 2')
-
+```{r echo=FALSE}
 x=Y.pca$var$cos2[order(Y.pca$var$cos2[,1],decreasing = TRUE),]
 x<-as.data.frame(x)
 p<-ggplot(data=x, aes(x=rownames(x), y=Dim.1)) +
@@ -3015,15 +3019,36 @@ p<-ggplot(data=x, aes(x=rownames(x), y=Dim.1)) +
   ylab("")+xlab('')+
   ggtitle("% var letta da PC 1")
 
-library(gridExtra)
-grid.arrange(g, p, nrow = 1)
+print(p)
+
 ```
+
+***
+La percentuale della varianza totale letta 
+
+### {data-height=500}
+```{r echo=FALSE}
+g<-ggplot()+ 
+  geom_text(data=Y.var,aes(x=Dim.1,y=Dim.2,label=rownames(Y.var)))+ 
+  geom_point(cbind.data.frame(x=0,y=0),mapping = aes(x=x,y=y),shape=3,colour="red")+
+  xlim(-1,1)+ 
+  ylim(-1,1)+
+  xlab('PC 1')+ 
+  ylab('PC 2')
+
+print(g)
+```
+
+***
+Le variabili proiette sul piano PC1/PC2
 
 ### {data-height=150}
 La prima componente "legge" la gravità della situazione in generale.
 
-Andamento nel tempo della prima componente (o meglio dellla media mobile a 7 giorni - per "smorzare" le oscillazioni giornaliere ).\
-La linea blu è Italia e la verde Lombardia
+L'andamento nel tempo della prima componente (o meglio dellla media mobile a 7 giorni - per "smorzare" le oscillazioni giornaliere ) è in *Andamento giornaliero*.\
+La linea blu è Italia e la verde Lombardia.
+
+Gli stessi colori sono usati per i box con i valori giornalieri delle variabili.
 </code></pre>
 </div>
 <script type="text/javascript">
